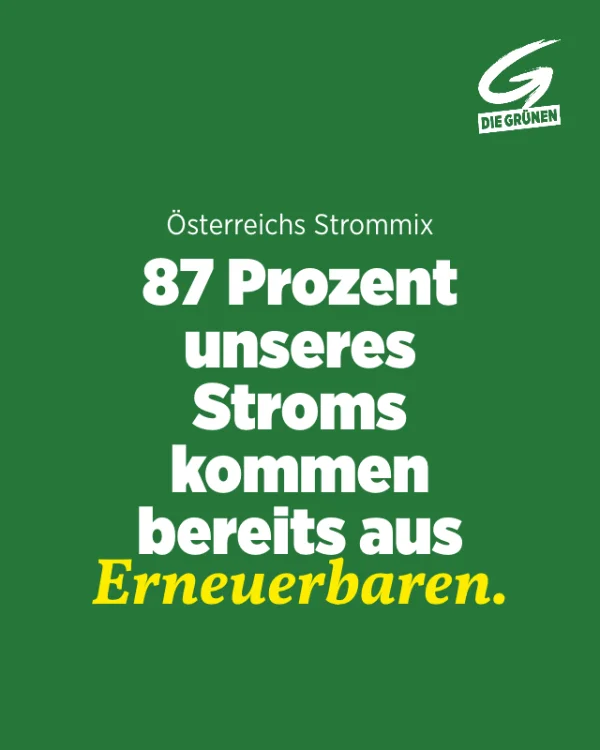
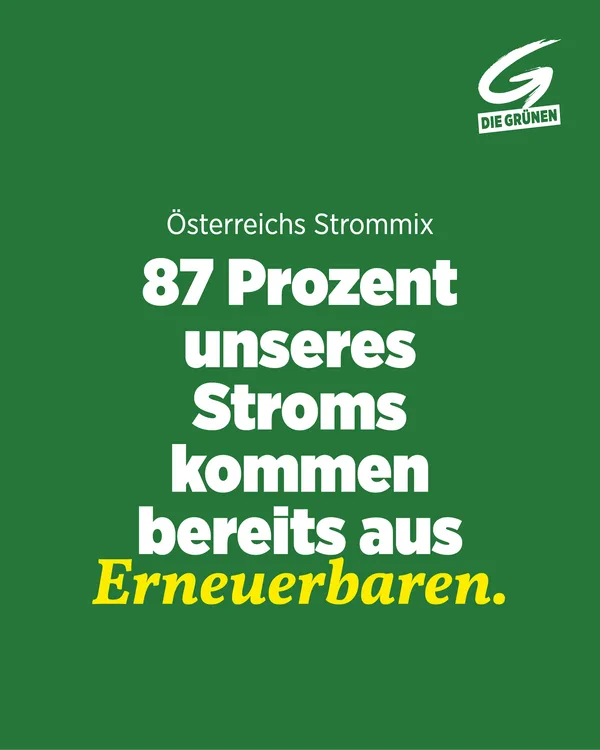
fix(canvas): at-typen im editor-router verdrahten und vorschaubilder aktualisieren
Der ControllableCanvasWrapper kannte in seinen drei Typ-Listen (Config-
Laden, Initial-Props, Render-Switch) nur die deutschen Sujets — jeder
-at-Typ fiel in den default-Zweig und zeigte nur "Editor type not
found". Alle fünf AT-Typen sind jetzt mit ihren Feldern und
Persistenz-Callbacks verdrahtet; bei freeform-at bleibt backgroundColor
weg, wenn leer, damit der CI-Default der AT-Config greift.

Die AT-Vorschaubilder stammten vom 29.07. und zeigten beim Zitat noch
den grünen Verlauf über dem Foto; seitdem wurden Zitat (grauer Verlauf),
Zitat Pur, Info und Dreizeilen-Overlay umgebaut. Alle vier sind aus den
aktuellen Configs neu gerendert (Konva-Harness über StandaloneCanvas).
dreizeilen-at-preview.webp war seit dem Entfernen des Sujets verwaist.

diff --git a/packages/canvas-editor/src/CanvasEditorRouter.tsx b/packages/canvas-editor/src/CanvasEditorRouter.tsx
@@ -49,6 +49,23 @@ export interface CanvasInitialPropsMap {
     currentImageSrc: string;
   } & BackgroundImageProps;
   profilbild: { transparentImage: string; backgroundColor: string };
+  // Österreich (de-AT) variants — field sets mirror CANVAS_TYPE_FIELDS in the studio
+  'zitat-at': { quote: string; name: string; imageSrc: string } & BackgroundImageProps;
+  'zitat-pure-at': { quote: string; name: string };
+  'dreizeilen-overlay-at': {
+    line1: string;
+    accent: string;
+    line3: string;
+    subline: string;
+    currentImageSrc: string;
+  } & BackgroundImageProps;
+  'info-at': { introline: string; text: string; accent: string };
+  // backgroundColor omitted when unset so the AT config's CI default applies
+  'freeform-at': {
+    backgroundMode: string;
+    backgroundColor?: string;
+    currentImageSrc: string;
+  } & BackgroundImageProps;
 }
 
 interface VeranstaltungInitialProps extends BackgroundImageProps {
@@ -184,19 +201,8 @@ export function ControllableCanvasWrapper({
   // Load config dynamically when type changes (for config-driven canvases)
   // Now includes 'zitat' and 'dreizeilen' for unified multi-page support
   useEffect(() => {
-    const needsConfig = [
-      'zitat',
-      'zitat-pure',
-      'info',
-      'veranstaltung',
-      'simple',
-      'dreizeilen',
-      'slider',
-      'freeform',
-      'profilbild',
-    ].includes(type);
-
-    if (needsConfig && isValidCanvasType(type)) {
+    // Every valid canvas type is config-driven (incl. the de-AT variants).
+    if (isValidCanvasType(type)) {
       setConfigLoading(true);
       loadCanvasConfig(type)
         .then(setConfig)
@@ -348,6 +354,42 @@ export function ControllableCanvasWrapper({
             transparentImage: str(effectiveState.transparentImage) || imageSrc || '',
             backgroundColor: str(effectiveState.backgroundColor),
           } satisfies CanvasInitialPropsMap['profilbild'];
+        case 'zitat-at':
+          return {
+            quote: str(effectiveState.quote),
+            name: str(effectiveState.name),
+            imageSrc: bgSrc(),
+            ...bgImageProps(),
+          } satisfies CanvasInitialPropsMap['zitat-at'];
+        case 'zitat-pure-at':
+          return {
+            quote: str(effectiveState.quote),
+            name: str(effectiveState.name),
+          } satisfies CanvasInitialPropsMap['zitat-pure-at'];
+        case 'dreizeilen-overlay-at':
+          return {
+            line1: str(effectiveState.line1),
+            accent: str(effectiveState.accent),
+            line3: str(effectiveState.line3),
+            subline: str(effectiveState.subline),
+            currentImageSrc: bgSrc(),
+            ...bgImageProps(),
+          } satisfies CanvasInitialPropsMap['dreizeilen-overlay-at'];
+        case 'info-at':
+          return {
+            introline: str(effectiveState.introline),
+            text: str(effectiveState.text),
+            accent: str(effectiveState.accent),
+          } satisfies CanvasInitialPropsMap['info-at'];
+        case 'freeform-at': {
+          const backgroundColor = str(effectiveState.backgroundColor);
+          return {
+            backgroundMode: str(effectiveState.backgroundMode) || 'color',
+            ...(backgroundColor ? { backgroundColor } : {}),
+            currentImageSrc: bgSrc(),
+            ...bgImageProps(),
+          } satisfies CanvasInitialPropsMap['freeform-at'];
+        }
         default:
           return effectiveState;
       }
@@ -386,6 +428,16 @@ export function ControllableCanvasWrapper({
           // backgroundMode must persist alongside the image — the background
           // image element only renders when backgroundMode === 'image'.
           return createCallbacks(['backgroundMode', ...BG_IMAGE_KEYS]);
+        case 'zitat-at':
+          return createCallbacks(['quote', 'name', ...BG_IMAGE_KEYS]);
+        case 'zitat-pure-at':
+          return createCallbacks(['quote', 'name']);
+        case 'dreizeilen-overlay-at':
+          return createCallbacks(['line1', 'accent', 'line3', 'subline', ...BG_IMAGE_KEYS]);
+        case 'info-at':
+          return createCallbacks(['introline', 'text', 'accent']);
+        case 'freeform-at':
+          return createCallbacks(['backgroundMode', 'backgroundColor', ...BG_IMAGE_KEYS]);
         default:
           return {};
       }
@@ -402,6 +454,11 @@ export function ControllableCanvasWrapper({
       case 'dreizeilen':
       case 'freeform':
       case 'profilbild':
+      case 'zitat-at':
+      case 'zitat-pure-at':
+      case 'dreizeilen-overlay-at':
+      case 'info-at':
+      case 'freeform-at':
         if (!config) return <div>Lädt Konfiguration...</div>;
 
         return (
